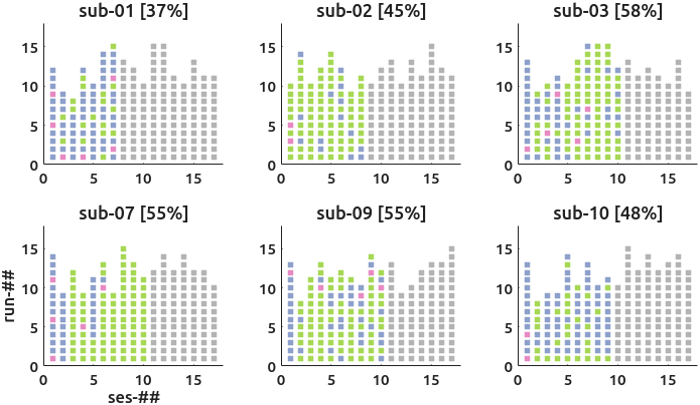
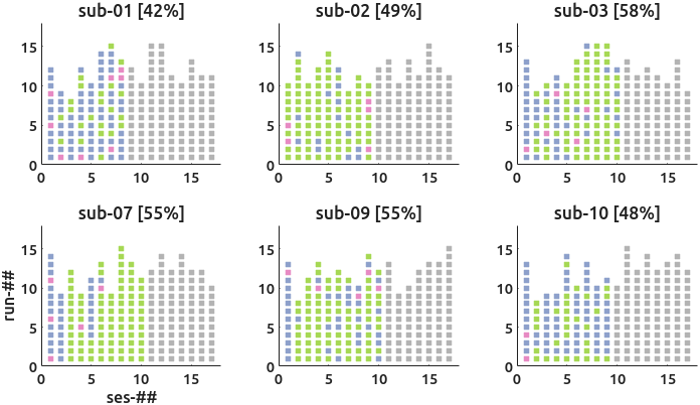
++

diff --git a/pages/pca/sub-02.md b/pages/pca/sub-02.md
@@ -5,6 +5,37 @@ nav_order: 2
 parent: pca
 ---
 # pca: sub-02
+### 20260807T1612:sub-02_ses-09
+run-01
+![pca_run-01](figs/sub-02_ses-09_run-01.png)
+
+run-02
+![pca_run-02](figs/sub-02_ses-09_run-02.png)
+
+run-03
+![pca_run-03](figs/sub-02_ses-09_run-03.png)
+
+run-04
+![pca_run-04](figs/sub-02_ses-09_run-04.png)
+
+run-05
+![pca_run-05](figs/sub-02_ses-09_run-05.png)
+
+run-06
+![pca_run-06](figs/sub-02_ses-09_run-06.png)
+
+run-07
+![pca_run-07](figs/sub-02_ses-09_run-07.png)
+
+run-08
+![pca_run-08](figs/sub-02_ses-09_run-08.png)
+
+run-09
+![pca_run-09](figs/sub-02_ses-09_run-09.png)
+
+run-10
+![pca_run-10](figs/sub-02_ses-09_run-10.png)
+
 ### 20260806T1548:sub-02_ses-08
 run-01
 ![pca_run-01](figs/sub-02_ses-08_run-01.png)

diff --git a/pages/topup/sub-02.md b/pages/topup/sub-02.md
@@ -5,6 +5,27 @@ nav_order: 2
 parent: topup
 ---
 # topup: sub-02
+### 20260807T1612:sub-02_ses-09
+![slices_run-01](figs/sub-02_ses-09_run-01.png)
+
+![slices_run-02](figs/sub-02_ses-09_run-02.png)
+
+![slices_run-03](figs/sub-02_ses-09_run-03.png)
+
+![slices_run-04](figs/sub-02_ses-09_run-04.png)
+
+![slices_run-05](figs/sub-02_ses-09_run-05.png)
+
+![slices_run-06](figs/sub-02_ses-09_run-06.png)
+
+![slices_run-07](figs/sub-02_ses-09_run-07.png)
+
+![slices_run-08](figs/sub-02_ses-09_run-08.png)
+
+![slices_run-09](figs/sub-02_ses-09_run-09.png)
+
+![slices_run-10](figs/sub-02_ses-09_run-10.png)
+
 ### 20260806T1548:sub-02_ses-08
 ![slices_run-01](figs/sub-02_ses-08_run-01.png)
 

diff --git a/index.md b/index.md
@@ -5,7 +5,7 @@ nav_order: 0
 ---
 
 # Overview of the current progress
-Here, the current (07-Aug-2026 16:24:51 `Europe/Berlin`) progress of the fMRI+ data acquisition of the [ManyMusic](https://manymusic.net/) project is shared. Please direct any questions to [Dr. Seung-Goo Kim](mailto:seung-goo.kim@ae.mpg.de).
+Here, the current (08-Aug-2026 16:06:01 `Europe/Berlin`) progress of the fMRI+ data acquisition of the [ManyMusic](https://manymusic.net/) project is shared. Please direct any questions to [Dr. Seung-Goo Kim](mailto:seung-goo.kim@ae.mpg.de).
 
 ## Current acquisition
 

diff --git a/pages/motion/sub-02.md b/pages/motion/sub-02.md
@@ -5,6 +5,9 @@ nav_order: 2
 parent: motion
 ---
 # headmotion: sub-02
+### 20260807T1612:sub-02_ses-09
+![headmotion](figs/sub-02_ses-09.png)
+
 ### 20260806T1548:sub-02_ses-08
 ![headmotion](figs/sub-02_ses-08.png)
 
